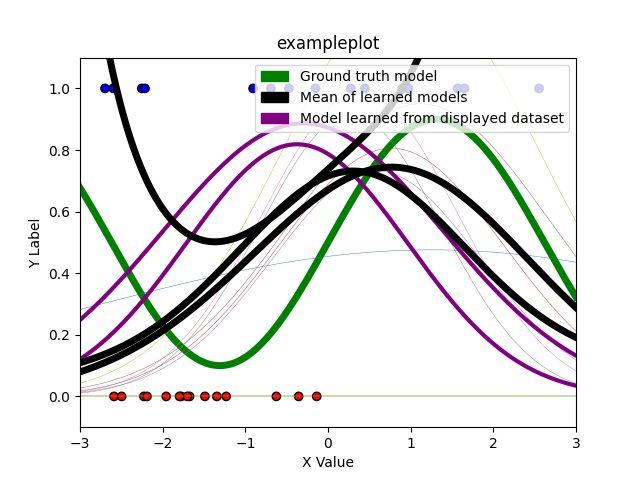
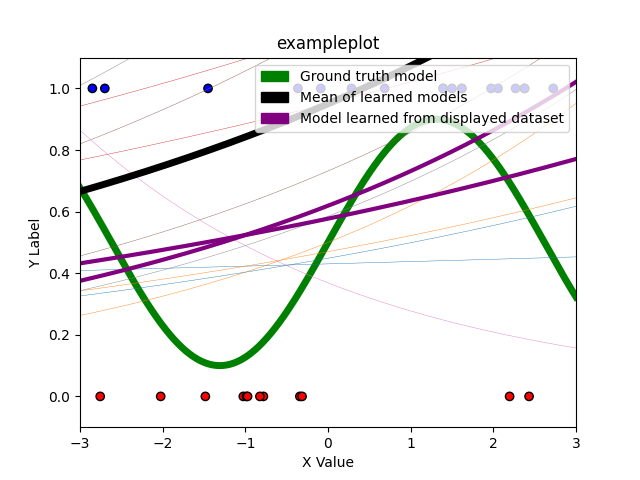
complete code for problem 1

diff --git a/HW2/T2_P1_clean.py b/HW2/T2_P1_clean.py
@@ -14,57 +14,68 @@ from scipy.special import expit as sigmoid
 # free to change any of the class attributes, as long as you do not change any
 # of the given function headers (they must take and return the same arguments).
 
+# Note: this is in Python 3
+
 def basis1(x):
     return np.stack([np.ones(len(x)), x], axis=1)
 
+# TODO: Implement this
 def basis2(x):
-    return np.array([[1, x_i, x_i**2] for x_i in x])
+    return None
 
 def basis3(x):
-    return np.array([[1, x_i, x_i**2, x_i**3, x_i**4, x_i**5] for x_i in x])
+    return np.array([[1, x_i, x_i ** 2, x_i ** 3, x_i ** 4, x_i ** 5] for x_i in x])
 
 class LogisticRegressor:
-    def __init__(self, eta, runs, N):
+    def __init__(self, eta, runs):
+        # Your code here: initialize other variables here
         self.eta = eta
         self.runs = runs
-        self.N = N
+
+    # NOTE: Just to show how to make 'private' methods
+    def __dummyPrivateMethod(self, input):
+        return None
 
     def __logSigmoid(self, z):
-        return 1 / (1 + np.exp(-z))
+        return 1 / (np.exp(-z))
 
-    def __computeGradient(self, x, y, W):
-        gradient = np.zeros((x.shape[1], ))
-        for i in range(N):
+    def __computeGradient(self, x, y, w):
+        sum = 0
+
+        for i in range(len(x)):
             x_i = x[i]
             y_i = y[i][0]
-            y_i_hat = self.__logSigmoid(np.dot(W.T, x_i))
-            gradient += (y_i_hat - y_i) * x_i
-        gradient = gradient.reshape(-1, 1)
-        ## Averging the gradient over the data points, as is 
-        ## specified in Problem 1.1.
-        gradient /= N
-        return gradient
+            y_i_hat = self.__logSigmoid(np.dot(w.T, x_i))
+            sum += (y_i_hat - y_i) * x_i
+        
+        # here we average the sum over the number of contributions 
+        # to the gradient (we are using all data points so we must
+        # divide by the length of the dataset)
+        return sum / len(x)
 
+    # TODO: Optimize w using gradient descent
     def fit(self, x, y, w_init=None):
         # Keep this if case for the autograder
         if w_init is not None:
             self.W = w_init
         else:
-            self.W = np.random.rand(x.shape[1], 1)        
-        
-        # optimize W using gradient decsent
-        new_W = np.empty_like(self.W)
-        for _ in range(self.runs):
-            gradient = self.__computeGradient(x, y, self.W)
-            new_W = self.W - (self.eta * gradient)
-            self.W = new_W
+            self.W = np.random.rand(x.shape[1], 1)
 
+        # optimize W using gradient decsent
+        w = self.W
+        new_w = w
+        for _ in range(self.runs):
+            new_w = w - self.eta * self.__computeGradient(x, y, w)
+            w = new_w
+        self.W = w
+
+    # TODO: Fix this method!
     def predict(self, x):
         y_hat = [self.__logSigmoid(np.dot(self.W.T, x_i)) for x_i in x]
         return np.array(y_hat)
 
 # Function to visualize prediction lines
-# Takes as input last_x, last_y, [list of models], basis function, title,
+# Takes as input last_x, last_y, [list of models], basis function, title
 # last_x and last_y should specifically be the dataset that the last model
 # in [list of models] was trained on
 def visualize_prediction_lines(last_x, last_y, models, basis, title):
@@ -104,13 +115,14 @@ def visualize_prediction_lines(last_x, last_y, models, basis, title):
     plt.plot(X_pred, np.mean(Y_hats, axis=0), 'k', linewidth=5)
 
     plt.savefig(title + '.png')
+    plt.show()
 
 # Function to generate datasets from underlying distribution
 def generate_data(dataset_size):
     x, y = [], []
     for _ in range(dataset_size):
         x_i = 6 * np.random.random() - 3
-        p_i = np.sin(1.2 * x_i) * 0.4 + 0.5
+        p_i = np.sin(1.2*x_i) * 0.4 + 0.5
         y_i = np.random.binomial(1, p_i)
         x.append(x_i)
         y.append(y_i)
@@ -123,16 +135,16 @@ if __name__ == "__main__":
     eta = 0.001
     runs = 10000
     N = 30
-    num_models = 10
 
-    # Make plot for each basis with all models on each plot
-    for basis in [basis1, basis2, basis3]:
-        all_models = []
-        for _ in range(num_models):
-            x, y = generate_data(N)
-            x_transformed = basis(x)
-            model = LogisticRegressor(eta=eta, runs=runs, N=N)
-            model.fit(x_transformed, y)
-            all_models.append(model)
-        plt.figure()
-        visualize_prediction_lines(x, y, all_models, basis, basis.__name__)
+    # TODO: Make plot for each basis with all 10 models on each plot
+
+    # For example:
+    all_models = []
+    for _ in range(10):
+        x, y = generate_data(N)
+        x_transformed = basis1(x)
+        model = LogisticRegressor(eta=eta, runs=runs)
+        model.fit(x_transformed, y)
+        all_models.append(model)
+    # Here x and y contain last dataset:
+    visualize_prediction_lines(x, y, all_models, basis1, "exampleplot")

diff --git a/HW2/homework2_sol.tex b/HW2/homework2_sol.tex
@@ -161,7 +161,13 @@ Moreover, each plot also displays 1 of the randomly generated datasets and highl
 
 \item 
 
-This is a first part of a solution
+This part of the problem is implemented in T2\_P1.py
+
+\item
+
+The three plots are the following, labeled by the basis they represent.
+
+
 
 \end{enumerate}
 
